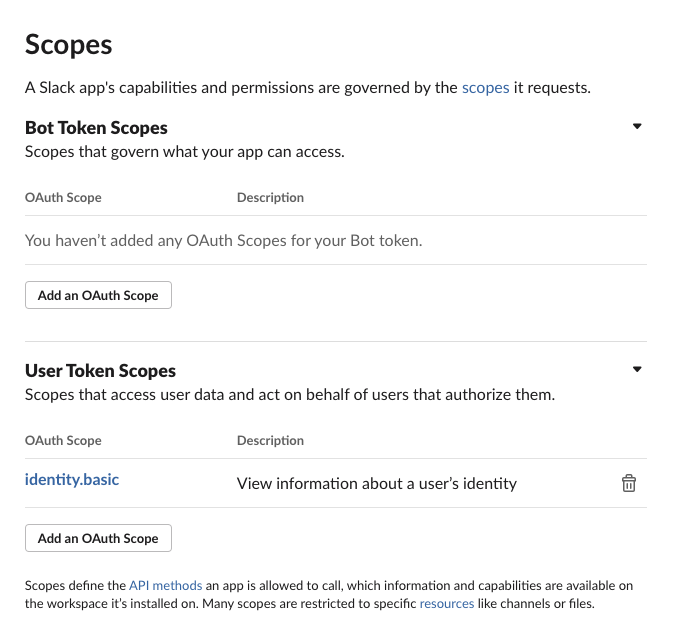
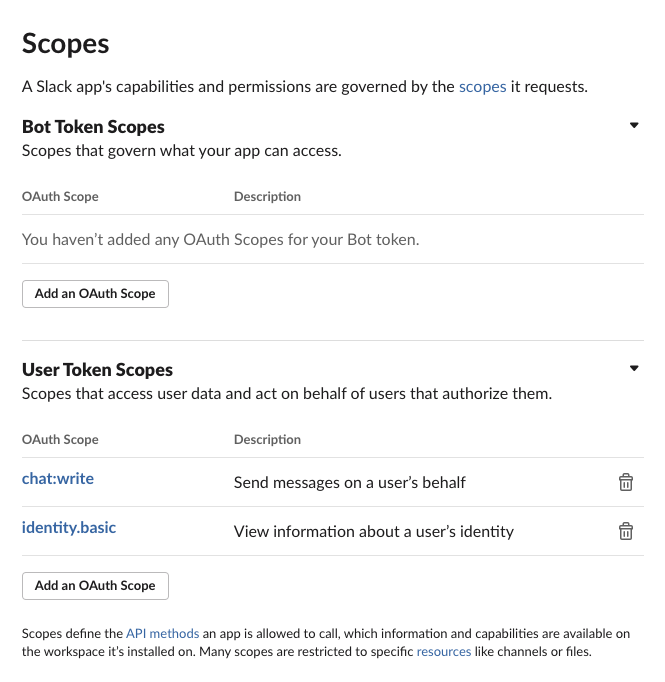
fix: fix the configuration of Slack for v0.1.7.

diff --git a/content/docs/configuration/index.md b/content/docs/configuration/index.md
@@ -34,7 +34,7 @@ Firstly, we have to create [Slack App](https://api.slack.com/apps). Let's click 
 
 ### Step 2: Set up App
 
-After creating App let's move to the **OAuth & Permissions** section. In this section, we need to set up the *redirect URLs* and *scopes*. Firstly, let's add a new redirect URL with the `https://YOUR_HOST/slack/signin` (or `http://YOUR_HOST/slack/signin`) format; secondly, add the `identity.basic` into the user token scopes.
+After creating App let's move to the **OAuth & Permissions** section. In this section, we need to set up the *redirect URLs* and *scopes*. Firstly, let's add a new redirect URL with the `https://YOUR_HOST/slack/signin` (or `http://YOUR_HOST/slack/signin`) format; secondly, add the `identity.basic` scope and the `chat:write` scope into the user token scopes.
 
 figure) Slack Redirect URLS
 
@@ -43,8 +43,6 @@ figure) Slack Redirect URLS
 figure) Slack Scope
 
 ![slack-scope](/images/slack-scope.png)
-
-Then install the App into the workspace by clicking **Install to Workspace**. ([Slack Doc](https://api.slack.com/authentication/basics#start))
 
 ## Microsoft Teams
 

diff --git a/content/docs/release/index.md b/content/docs/release/index.md
@@ -8,6 +8,12 @@ Relase note of Heytaco Anywhere. You can check what is added, fixed and removed.
 
 ## Release Note
 
+### v0.1.7
+
+**Fixed**
+
+* 🛠  Change the user is passed through OAuth twice for the `chat:write` scope.
+
 ### v0.1.6
 
 **Fixed**
